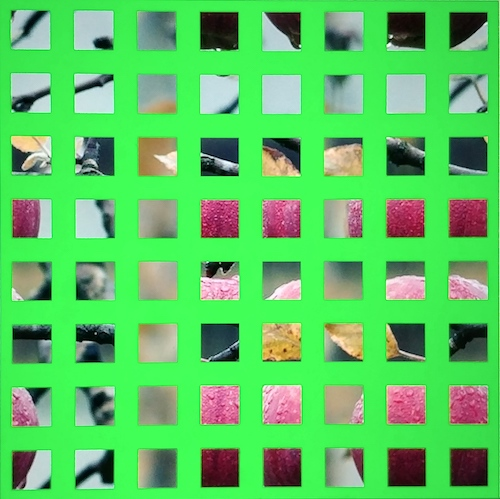
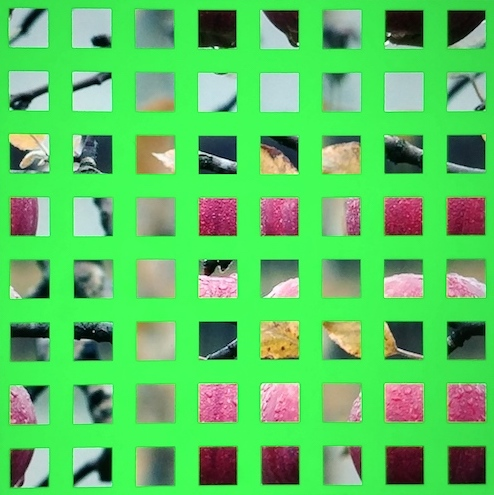
debugging and tweaking extract_b

diff --git a/extract_B.m b/extract_B.m
@@ -7,9 +7,9 @@ colIncrement = rowIncrement;
 
 centerBoxIncrement = round(rows/(2*rowCount));
 
-bias = 0;
+bias = 1;
 step = 1;
-variance = 10;
+variance = 15;
 
 %Currently configured for cube images only
 rowScan = cell(1,rowCount);
@@ -36,9 +36,12 @@ for i = centerBoxIncrement:(centerBoxIncrement*2):rows-10
        inc = 0;
        firstL = 1;
        while abs(double(inputImage(i,1+inc,2))-sample) < variance 
+           %sample = inputImage(i,1+inc,2);
            inc = inc + 1;
-           firstL = firstL + inc;
+           firstL = firstL + 1;
        end
+       
+       firstL = firstL + 1;
        
        %Last Right
        sample = double(inputImage(i,cols,2));
@@ -46,9 +49,12 @@ for i = centerBoxIncrement:(centerBoxIncrement*2):rows-10
        lastR = cols;
        
        while abs(double(inputImage(i,cols-dec,2))-sample) < variance 
+           %sample = inputImage(i,1+inc,2);
            dec = dec + 1;
-           lastR = lastR - dec;
+           lastR = lastR - 1;
        end
+       
+       lastR = lastR - 1;
        
        scannedRow(rowCounter, colCounter) = firstL;
        colCounter = colCounter + 1;
@@ -60,24 +66,24 @@ for i = centerBoxIncrement:(centerBoxIncrement*2):rows-10
 
            %find left bound
            sample = double(inputImage(i,j,2));
-           inc = step;
+           dec = step;
            X1 = j;
-           while abs(double(inputImage(i,j+inc,2))-sample) < variance 
-               inc = inc + 1;
-               X1 = X1 + inc;
+           while abs(double(inputImage(i,j-dec,2))-sample) < variance 
+               dec = dec + 1;
+               X1 = X1 - dec;
            end
 
-           X1 = X1 + bias;
+           X1 = X1 - 2;
 
            %find right bound
-           dec = step;
+           inc = step;
            X2 = j;
-           while abs(double(inputImage(i,j-dec,2)) - sample) < variance 
-               dec = dec + 1;
-               X2 = X2 + dec;
+           while abs(double(inputImage(i,j+inc,2)) - sample) < variance 
+               inc = inc + 1;
+               X2 = X2 + inc;
            end
 
-           X2 = X2 - bias;
+           X2 = X2 + 2;
 
            scannedRow(rowCounter,colCounter) = X1;
            colCounter = colCounter + 1;
@@ -103,8 +109,10 @@ for i = centerBoxIncrement:(centerBoxIncrement*2):rows-10
        firstL = 1;
        while abs(double(inputImage(1+inc,i,2))-sample) < variance 
            inc = inc + 1;
-           firstL = firstL + inc;
+           firstL = firstL + 1;
        end
+       
+       firstL = firstL - 1;
       
        %Last BOTTOM
        sample = double(inputImage(rows,i,2));
@@ -112,8 +120,10 @@ for i = centerBoxIncrement:(centerBoxIncrement*2):rows-10
        lastR = cols;
        while abs(double(inputImage(rows-dec,i,2))-sample) < variance 
            dec = dec + 1;
-           lastR = lastR - dec;
+           lastR = lastR - 1;
        end
+       
+       lastR = lastR + 1;
        
        scannedCol(rowCounter,colCounter) = firstL;
        rowCounter = rowCounter + 1;
@@ -132,7 +142,7 @@ for i = centerBoxIncrement:(centerBoxIncrement*2):rows-10
                X1 = X1 - dec;
            end
 
-           X1 = X1 + bias;
+           X1 = X1 - 2;
 
            %Find BOTTOM bound
            inc = step;
@@ -142,7 +152,7 @@ for i = centerBoxIncrement:(centerBoxIncrement*2):rows-10
                X2 = X2 + inc;
            end
 
-           X2 = X2 - bias;
+           X2 = X2 + 2;
 
            scannedCol(rowCounter, colCounter) = X1;
            rowCounter = rowCounter + 1;
@@ -155,10 +165,29 @@ for i = centerBoxIncrement:(centerBoxIncrement*2):rows-10
         
 end
 
-rowCall = cell(2,1);
-rowCall{1} = rowScan;
-rowCall{2} = colScan;
-outImage = scannedCol;
+outCell = cell(1,(colCount*rowCount));
+cellCount = 1;
+%scannedCol = scannedCol';
+
+for i = 0:1:rowCount -1
+    
+    for j = 0:1:colCount -1
+        X1 = scannedRow((i+1),(j*2)+1);
+        X2 = scannedRow((i+1),(j*2)+2);
+        Y1 = scannedCol((i*2)+1,j+1);
+        Y2 = scannedCol((i*2)+2,j+1);
+        
+       % Z = inputImage(Y1:Y2,X1:X2,:);
+       % figure('name','Box1');
+       % imshow(Z);
+        outCell{1,cellCount} = inputImage(Y1:Y2,X1:X2,:);
+        cellCount = cellCount + 1;
+    end  
+    
+    
+end
+
+outImage = outCell;
 
 
 end

diff --git a/decryptTest.m b/decryptTest.m
@@ -45,6 +45,7 @@ t1=cputime;
 
 %image3 = imread('TestPhotos/appleFS.jpg');
 image3 = imread('DecryptionTestImages/j5by5.png');
+image3 = imread('TestPhotos/appleGrey8by8Crop.jpg');
 
 
 %image3 = imread('output/1.png');
@@ -67,7 +68,11 @@ image3 = imread('DecryptionTestImages/j5by5.png');
 %imshow(image3);
 %Extract Data
 %imageOut3 = extract_R(image3,5,5,outThreshold);
-imageOut3 = extract_B(image3,5,5);
+imageOut3 = extract_B(image3,8,8);
+
+%outThreshold = threshold(image3);
+%Extract Data
+%imageOut3 = extract(image3,5,5,outThreshold);
 
 %Read Image-----------------------------
 %image3 = imread('TestPhotos/j5by5.jpg');
@@ -90,12 +95,12 @@ imageOut3 = extract_B(image3,5,5);
 
 
 %Normalize Data-----------------------------
-%imageOut3 = normalization(imageOut3);
+imageOut3 = normalization(imageOut3);
 
 %Decrypt Image-----------------------------
 
-%dImage = decrypt(imageOut3,5,5);
-%imwrite(dImage,'outputDecry/1D.png');
+dImage = decrypt(imageOut3,8,8);
+imwrite(dImage,'outputDecry/1D.png');
 decryptTestTime=(cputime-t1);
 
 %figure('Name','Decrypted Image')
